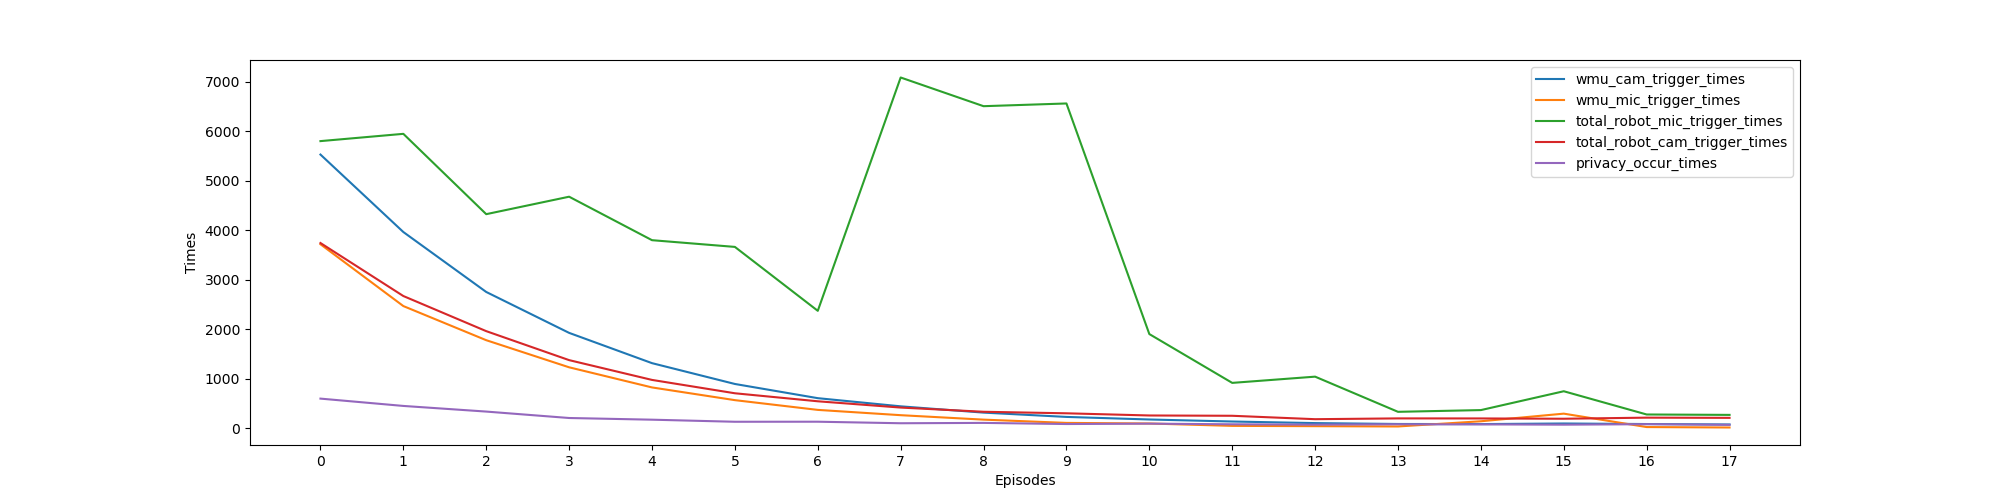
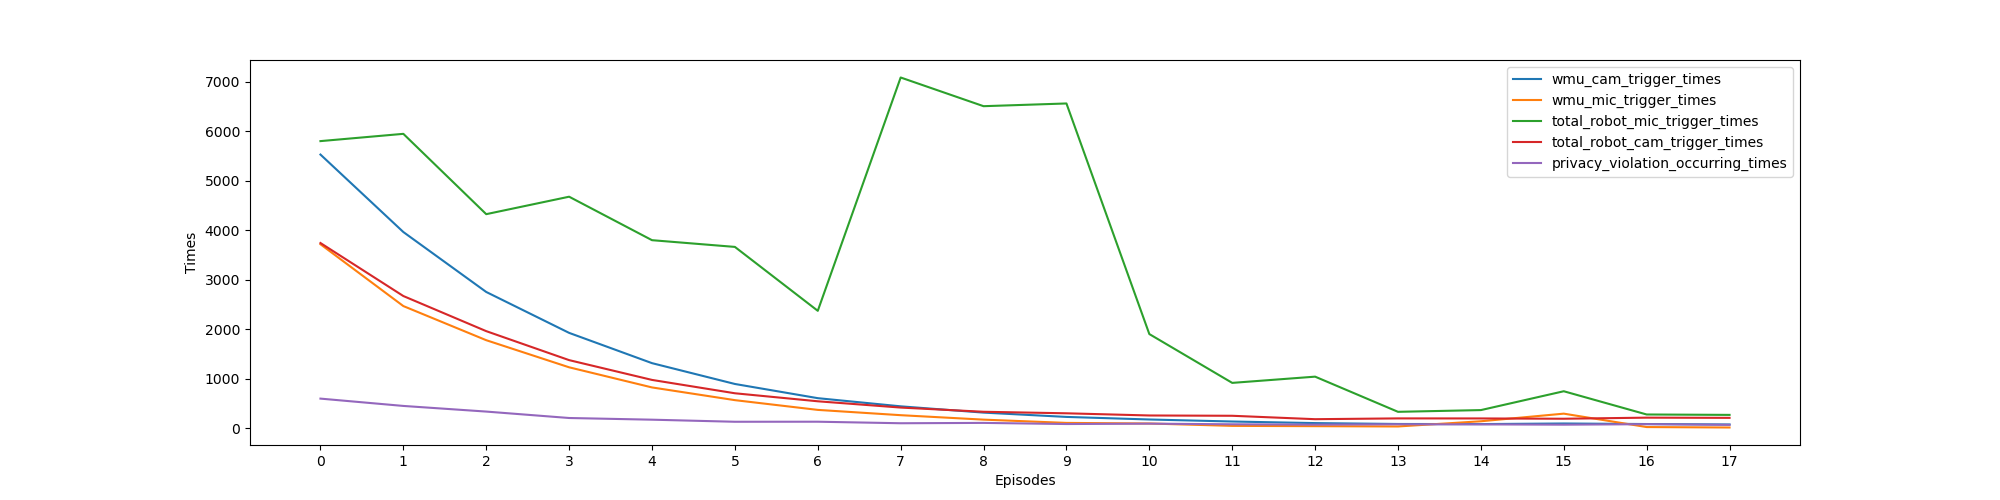
figures for dqn v4

Changed region(s): [[0.775, 0.15, 0.899, 0.36]]

diff --git a/RL_model/dqn_res_v4/test.py b/RL_model/dqn_res_v4/test.py
@@ -84,7 +84,7 @@ plt.plot(total_wmu_mic_trigger_times, label='wmu_mic_trigger_times')
 plt.plot(total_robot_mic_trigger_times, label='total_robot_mic_trigger_times')
 plt.plot(total_robot_cam_trigger_times, label='total_robot_cam_trigger_times')
 #plt.plot(total_robot_trigger_times, label='total_robot_mic_cam_trigger_times')
-plt.plot(total_privacy_times, label='privacy_occur_times')
+plt.plot(total_privacy_times, label='privacy_violation_occurring_times')
 
 
 
